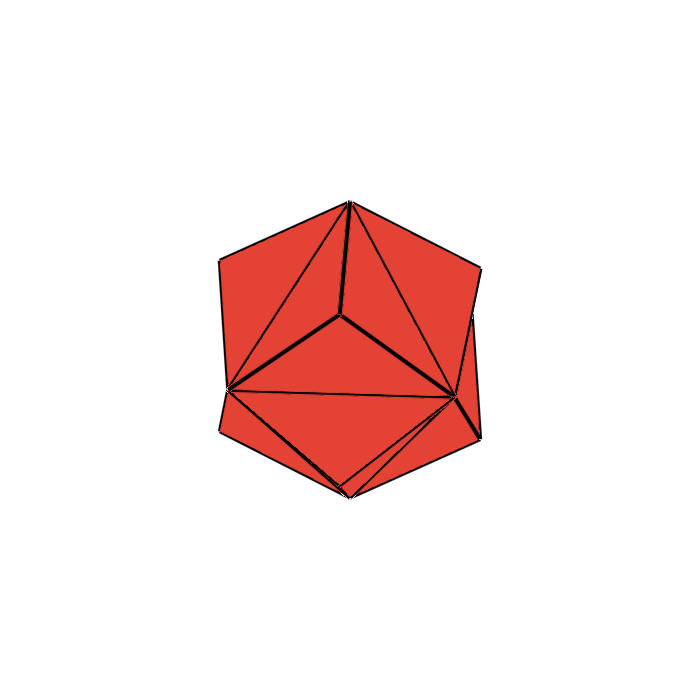
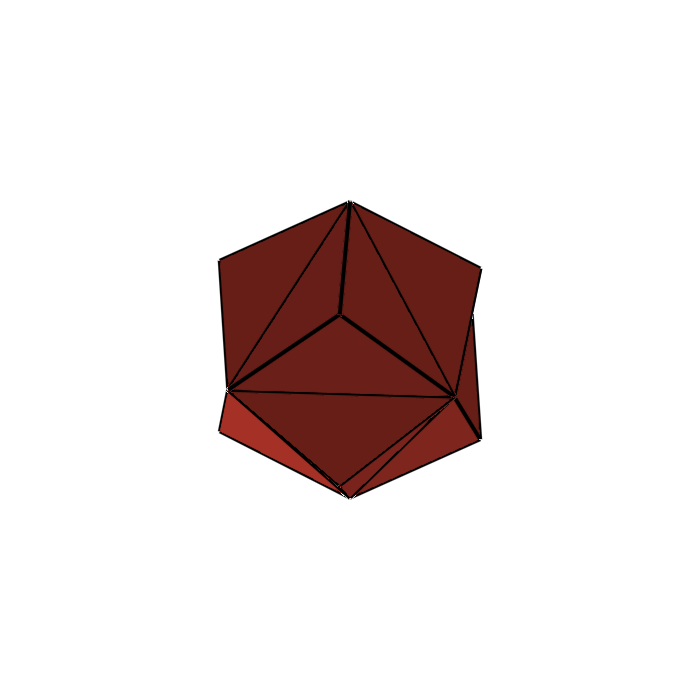
Support He_1 to He_4 indexing for excluded Cookson solids, bring back 3D shading, and delete unused images

Changed region(s): [[0.3, 0.27, 0.69, 0.72]]

diff --git a/doc/cookson.md b/doc/cookson.md
@@ -50,16 +50,16 @@ If you rigorously apply the axioms above, the following boundaries naturally pol
 
 ---
 
-## 5. The Excluded Solids List (Unnumbered)
+## 5. The Excluded Solids List ($He_1 - He_4$)
 
-These solids pass the baseline regime rules but are disqualified under **Rule A** because they share both the topological graph and the convexity of classical Catalan solids:
+These solids pass the baseline regime rules but are disqualified under **Rule A** because they share both the topological graph and the convexity of classical Catalan solids. They are indexed as **$He_1 \dots He_4$** for convenient reference:
 
-| Preview | Excluded Solid Name | Derivation / Parent Catalan | Classical Counterpart Graph | Vertices ($V$) | Faces ($F$) |
-| :---: | :--- | :--- | :--- | :---: | :---: |
-| <img src="img/excluded_hexasphere.png" width="90" alt="Studded Hexasphere"> | **Studded Hexasphere** | Convex Rhombic Dodecahedron | Tetrakis Hexahedron | 14 | 24 |
-| <img src="img/excluded_dodecasphere.png" width="90" alt="Studded Dodecasphere"> | **Studded Dodecasphere** | Convex Rhombic Triacontahedron | Pentakis Dodecahedron | 32 | 60 |
-| <img src="img/excluded_rhombic_dodecasphere.png" width="90" alt="Studded Rhombic Dodecasphere"> | **Studded Rhombic Dodecasphere** | Convex Deltoidal Icositetrahedron | Disdyakis Dodecahedron | 26 | 48 |
-| <img src="img/excluded_rhombic_triacontasphere.png" width="90" alt="Studded Rhombic Triacontasphere"> | **Studded Rhombic Triacontasphere** | Convex Deltoidal Hexecontahedron | Disdyakis Triacontahedron | 62 | 120 |
+| Index | Preview | Excluded Solid Name | Derivation / Parent Catalan | Classical Counterpart Graph | Vertices ($V$) | Faces ($F$) |
+| :---: | :---: | :--- | :--- | :--- | :---: | :---: |
+| **$He_1$** | <img src="img/excluded_hexasphere.png" width="90" alt="He1"> | **Studded Hexasphere** | Convex Rhombic Dodecahedron | Tetrakis Hexahedron | 14 | 24 |
+| **$He_2$** | <img src="img/excluded_dodecasphere.png" width="90" alt="He2"> | **Studded Dodecasphere** | Convex Rhombic Triacontahedron | Pentakis Dodecahedron | 32 | 60 |
+| **$He_3$** | <img src="img/excluded_rhombic_dodecasphere.png" width="90" alt="He3"> | **Studded Rhombic Dodecasphere** | Convex Deltoidal Icositetrahedron | Disdyakis Dodecahedron | 26 | 48 |
+| **$He_4$** | <img src="img/excluded_rhombic_triacontasphere.png" width="90" alt="He4"> | **Studded Rhombic Triacontasphere** | Convex Deltoidal Hexecontahedron | Disdyakis Triacontahedron | 62 | 120 |
 
 ---
 
@@ -124,9 +124,11 @@ P5 = studded_cuboctahedron()
 P6 = studded_rhombic_triacontasphere()
 P7 = gyrobitrigonal_octasphere()
 
-# Accessing the Excluded list
-ex1 = excluded_cookson(:studded_hexasphere)
+# Accessing the Excluded list (by :He1 - :He4 shorthand, integer 1-4, or name)
+ex1 = excluded_cookson(:He1)                     # Studded Hexasphere
+ex3 = cookson(:He3)                              # Studded Rhombic Dodecasphere
 ex_names = excluded_cookson_names()
+ex_name2 = excluded_cookson_name(2)              # "Studded Dodecasphere"
 
 # Structural metadata query
 info = cookson_info(:H3)
